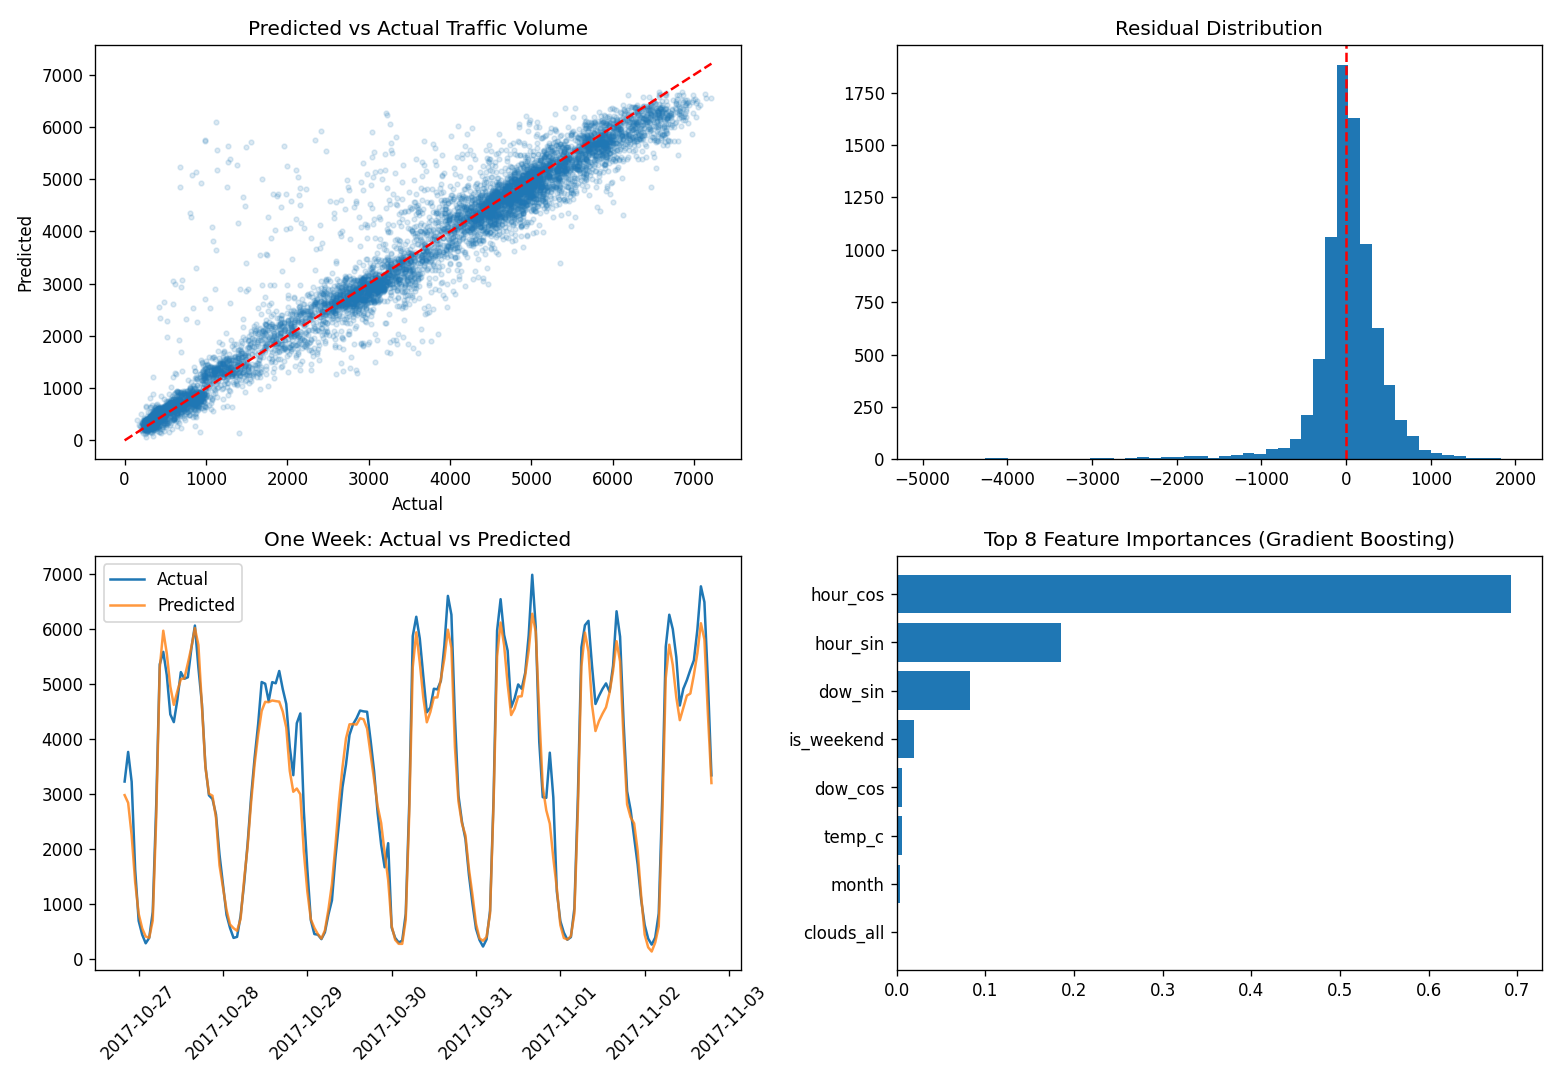
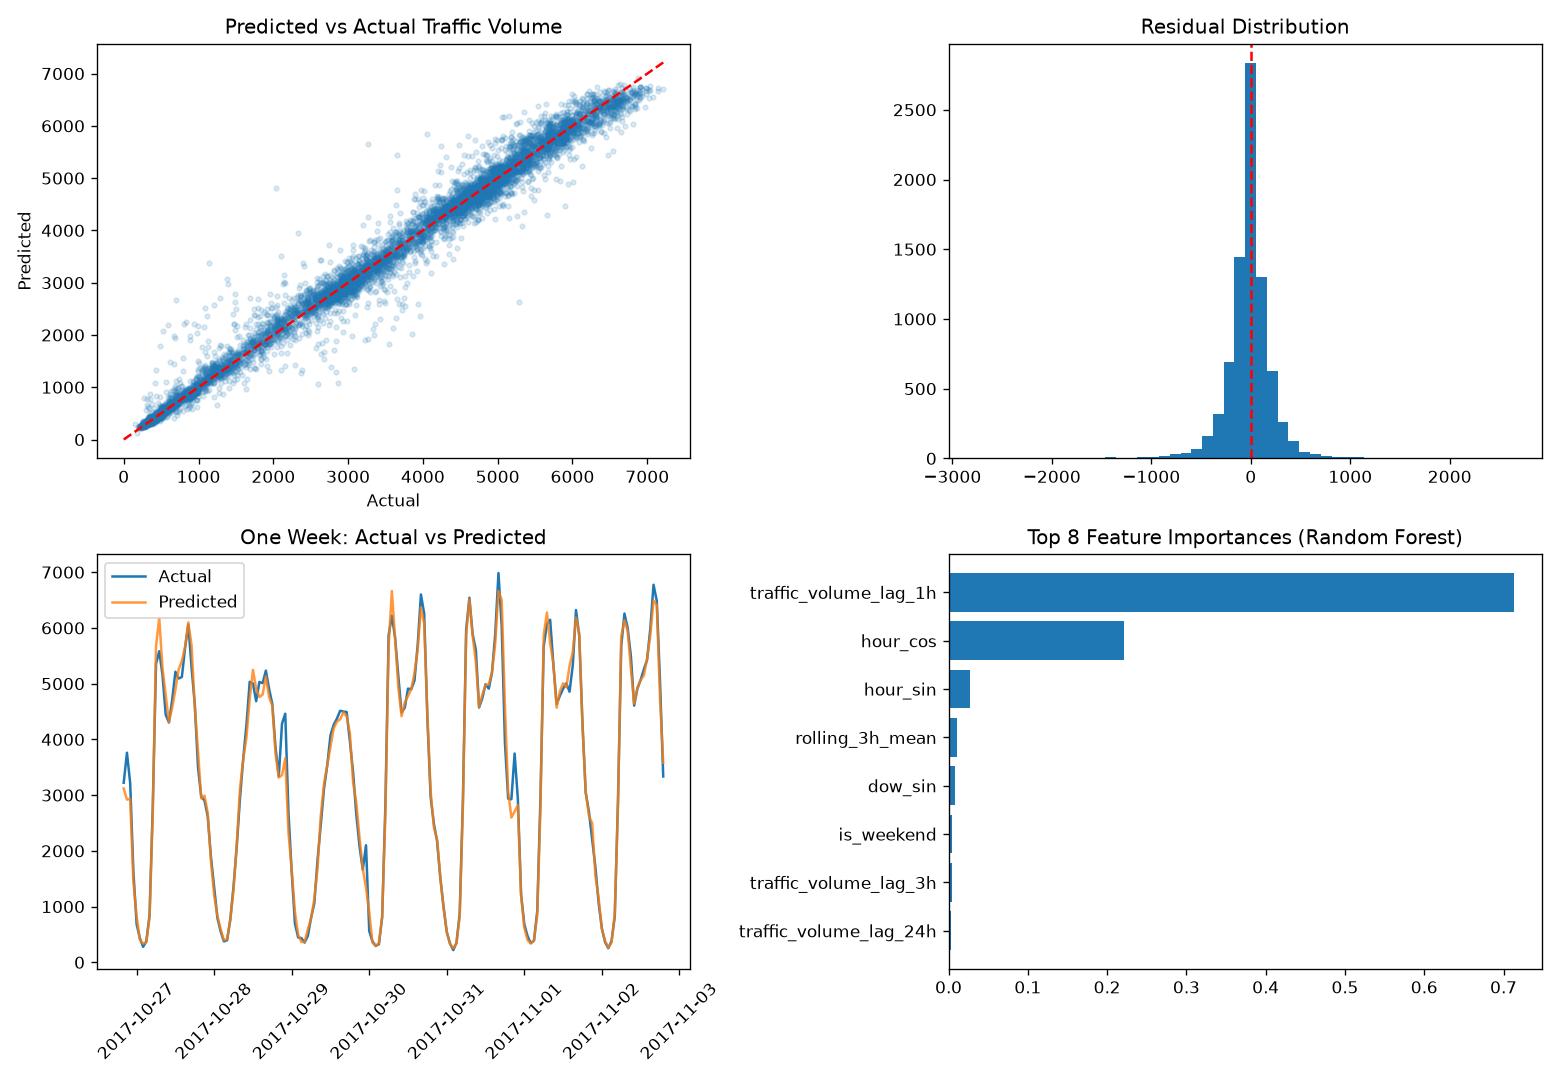
Show model visualizations in README

diff --git a/scripts/04_evaluate_and_plot.py b/scripts/04_evaluate_and_plot.py
@@ -42,7 +42,7 @@ axes[1,0].tick_params(axis='x', rotation=45)
 # Feature importance
 importances = pd.read_csv("models/feature_importances.csv", index_col=0).iloc[:, 0]
 axes[1,1].barh(importances.head(8).index[::-1], importances.head(8).values[::-1])
-axes[1,1].set_title("Top 8 Feature Importances (Gradient Boosting)")
+axes[1,1].set_title("Top 8 Feature Importances (Random Forest)")
 
 plt.tight_layout()
 plt.savefig("figures/model_evaluation.png", dpi=120)

diff --git a/README.md b/README.md
@@ -93,10 +93,38 @@ The data is split chronologically, not randomly, so the model is tested on futur
 | Model | MAE | RMSE | R2 |
 |---|---:|---:|---:|
 | Linear Regression | 370.2 | 495.6 | 0.937 |
-| Random Forest | 149.3 | 243.3 | 0.985 |
+| Random Forest | 149.9 | 243.5 | 0.985 |
 | Gradient Boosting | 196.8 | 299.2 | 0.977 |
 
 The Random Forest model is saved as the best model.
+
+## Results and visualizations
+
+### Traffic patterns in the dataset
+
+Traffic is lowest overnight, rises sharply during the morning commute, and reaches its highest average level during the afternoon rush period. Weekday traffic is also noticeably higher than weekend traffic.
+
+![Traffic patterns by hour, weekday, weather, and volume distribution](figures/eda_overview.png)
+
+### Model evaluation
+
+The predicted-versus-actual plot shows how closely predictions follow measured traffic. The one-week comparison shows the model following the repeated daily traffic cycle, while the residual chart shows the remaining prediction errors.
+
+![Random Forest prediction evaluation](figures/model_evaluation.png)
+
+### Input variables compared with traffic volume
+
+These plots show how time, weather, cloud cover, and holidays relate to the number of vehicles recorded per hour. They help explain which patterns are available to the model before training.
+
+![Predictor variables compared with traffic volume](figures/variable_vs_target.png)
+
+The PNG files are committed to the repository, so GitHub displays them directly without running Python. To regenerate them locally or in GitHub Codespaces, run:
+
+```bash
+python scripts/02_eda.py
+python scripts/04_evaluate_and_plot.py
+python scripts/05_variable_vs_target_plots.py
+```
 
 ## Stack
 
